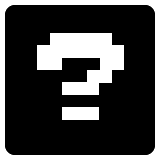
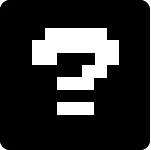
pre gpt

Changed region(s): [[0.0, 0.0, 1.0, 1.0], [0.2119, 0.1867, 0.7947, 0.6133], [0.3709, 0.6667, 0.6358, 0.7733]]

diff --git a/src/components/MyThree.tsx b/src/components/MyThree.tsx
@@ -53,13 +53,6 @@ const MyThree: React.FC<MyThreeProps> = () => {
   }, [urlStateCurr, urlStatePrev]);
 
   window.addEventListener('message', function (event) {
-    // // It's a good security practice to check the origin of the message
-    // if (event.origin !== 'http://example.com') {
-    //   // Replace 'http://example.com' with the origin of your iframe
-    //   return;
-    // }
-
-    // Handling the event
     if (event?.data?.url) {
       console.log('Received message from iframe:', event);
 
@@ -176,21 +169,6 @@ const MyThree: React.FC<MyThreeProps> = () => {
     pointLightBlue.intensity = 1;
     scene.add(pointLightBlue);
 
-    // const pointLightYellow = new THREE.PointLight(0xffff00);
-    // pointLightYellow.position.set(1200 + globalX, 1000, -150);
-    // pointLightYellow.intensity = 0.2;
-    // scene.add(pointLightYellow);
-
-    // const pointLightMagenta = new THREE.PointLight(0xff00ff);
-    // pointLightMagenta.position.set(1600 + globalX, 1000, -500);
-    // pointLightMagenta.intensity = 0.2;
-    // scene.add(pointLightMagenta);
-
-    // const pointLightCyan = new THREE.PointLight(0x00ffff);
-    // pointLightCyan.position.set(2200 + globalX, 1350, -80);
-    // pointLightCyan.intensity = 0.2;
-    // scene.add(pointLightCyan);
-
     const ambientLightThree = new THREE.AmbientLight(0xffffff);
     scene.add(ambientLightThree);
     ambientLightThree.intensity = 0;
@@ -246,16 +224,6 @@ const MyThree: React.FC<MyThreeProps> = () => {
       const wheelDelta = event.deltaY * 0.1;
 
       scrollPosition.current += wheelDelta;
-      // scrollPosition.current = Math.min(
-      //   scrollPosition.current,
-      //   height,
-      //   pageHeight
-      // );
-      // scrollPosition.current = Math.max(scrollPosition.current, 0);
-
-      // Clamp the scrollPosition to a range suitable for controlling the Z position
-
-      // boyRef.current.style.transform = `translateX(${scrollPosition.current}px)`;
     };
 
     window.addEventListener('wheel', onWheel);
@@ -560,16 +528,8 @@ const MyThree: React.FC<MyThreeProps> = () => {
               alt="project-icon"
             />
             <p className="last">Blue Skies</p>
-            {/* <p className="last">ReactTS, THREE.js, and SCSS</p> */}
           </div>
         </div>
-        {/* <div className="sette-wrapper">
-          <img
-            src={process.env.PUBLIC_URL + '/sette.jpeg'}
-            className="sette-icon"
-            alt="project-icon"
-          />
-        </div> */}
       </div>
     </div>
   );

diff --git a/src/components/Spectrogram.tsx b/src/components/Spectrogram.tsx
@@ -61,7 +61,8 @@ const AudioSpectrogram: React.FC<AudioSpectrogramProps> = ({
           meydaAnalyzerRef.current = Meyda.createMeydaAnalyzer({
             audioContext: audioContext,
             source: source,
-            bufferSize: 512 * 2,
+            bufferSize: 512,
+            // bufferSize: 512 * 2,
             featureExtractors: ['melBands'],
             melBands: 64, // Increase the number of mel bands to 64
             callback: (features: MeydaFeaturesObject) => {
@@ -88,7 +89,7 @@ const AudioSpectrogram: React.FC<AudioSpectrogramProps> = ({
                   );
 
                   // Apply decay factor to previous mel bands
-                  const decayFactor = 0.8;
+                  const decayFactor = 0.85;
                   // @ts-ignore
                   const currentMelBands = features.melBands;
                   if (previousMelBandsRef.current.length === 0) {
@@ -156,13 +157,13 @@ const AudioSpectrogram: React.FC<AudioSpectrogramProps> = ({
         audioElement.removeEventListener('canplay', setupMeyda);
       }
     };
-  }, [audioStarted]);
+  }, [audioRef, audioStarted, lowerPowerRef, upperPowerRef]);
 
   useEffect(() => {
     if (audioStarted && audioRef.current) {
       audioRef.current.play();
     }
-  }, [audioStarted]);
+  }, [audioRef, audioStarted]);
 
   return (
     <div className="spectrogram-container">
@@ -170,7 +171,7 @@ const AudioSpectrogram: React.FC<AudioSpectrogramProps> = ({
         // <button className="button-music" onClick={startAudio}>
         <img
           className="button-music"
-          src="/qblack_hardpixels_transbg.png"
+          src="/qwhite_hardpixels_transbg.png"
           alt="Niemo Audio Logo"
           onClick={() => {
             startAudio();
@@ -207,7 +208,7 @@ const AudioSpectrogram: React.FC<AudioSpectrogramProps> = ({
             </div>
 
             {/* <h4 className="spectrogram-text">Niemo Audio</h4> */}
-            <h4 className="spectrogram-text">= Math + Art</h4>
+            <h4 className="spectrogram-text">Math + Art</h4>
           </div>
 
           <canvas className="spectrogram" ref={canvasFlippedRef}></canvas>

diff --git a/src/components/Resume.tsx b/src/components/Resume.tsx
@@ -1,27 +1,11 @@
 // new component for Resume.tsx
 
-import React, { useEffect, useState } from 'react';
-import { isMobile } from './MyComponent';
-import AudioSpectrogram from './Spectrogram';
+import React from 'react';
+import { isMobile } from './MyThree';
 
 interface ResumeProps {}
 
 export const Resume: React.FC<ResumeProps> = () => {
-  // useEffect(() => {
-  //   const handleResize = () => {
-  //     if (window.innerWidth < 800) {
-  //       setMobile(true);
-  //     } else {
-  //       setMobile(false);
-  //     }
-  //   };
-  //   window.addEventListener('resize', handleResize);
-  //   handleResize();
-  //   return () => {
-  //     window.removeEventListener('resize', handleResize);
-  //   };
-  // }, []);
-
   return (
     <div className="body">
       <header>
@@ -55,9 +39,6 @@ export const Resume: React.FC<ResumeProps> = () => {
               </a>
             </p>
             <p>618-616-338O</p>
-            {/* <p>
-              <a href="https://niemo.io">https://niemo.io</a>
-            </p> */}
           </>
         )}
       </header>

diff --git a/src/App.scss b/src/App.scss
@@ -83,29 +83,21 @@
 
 .button-music {
   background-color: rgba(0, 0, 0, 0);
-  color: rgba(255, 255, 255, 0.437);
+  color: rgb(255, 255, 255);
   border: 0;
-  height: 200px;
-  width: 200px;
+  height: 130px;
+  width: 130px;
 
   cursor: pointer;
   filter: opacity(0.1);
 }
 
 .button-music:hover {
-  background-color: rgba(29, 0, 29, 0);
-  color: white;
-  border: 0;
-
-  // make image transparent
-  filter: opacity(1);
+  filter: opacity(0.4);
 }
 
 .button-music:active {
-  background-color: rgba(255, 255, 255, 0);
-  color: rgba(0, 0, 0, 0);
-  border: 0;
-  filter: opacity(0.5);
+  filter: opacity(1);
 }
 
 .spectrogram {
@@ -178,6 +170,7 @@
 
   padding: 0;
   margin: 0;
+  font-size: 2.5vw;
 
   display: flex;
   flex-direction: column;

diff --git a/public/index.html b/public/index.html
@@ -2,7 +2,8 @@
 <html lang="en">
   <head>
     <meta charset="utf-8" />
-    <link rel="icon" href="%PUBLIC_URL%/qblack_hardpixels_transbg.png" />
+    <link rel="icon" href="%PUBLIC_URL%/kirby.png" />
+    <!-- <link rel="icon" href="%PUBLIC_URL%/qblack_on_white.png" /> -->
     <meta name="viewport" content="width=device-width, initial-scale=1" />
     <meta name="theme-color" content="#000000" />
     <meta name="description" content="Niemo's Website" />

diff --git a/src/App.jsx b/src/App.jsx
@@ -1,6 +1,6 @@
 import './App.scss';
 import React from 'react';
-import MyThree from './components/MyComponent';
+import MyThree from './components/MyThree';
 
 function App() {
   return (
